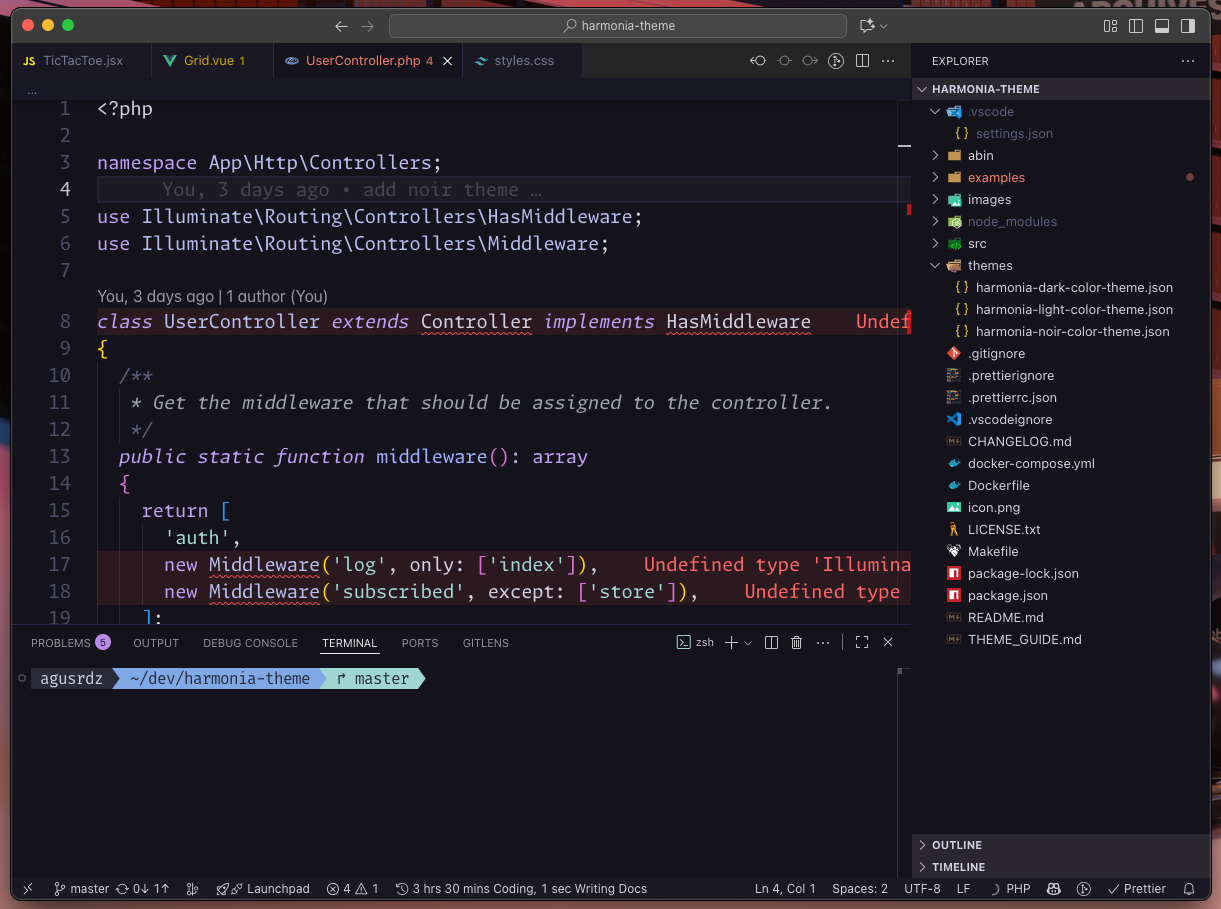
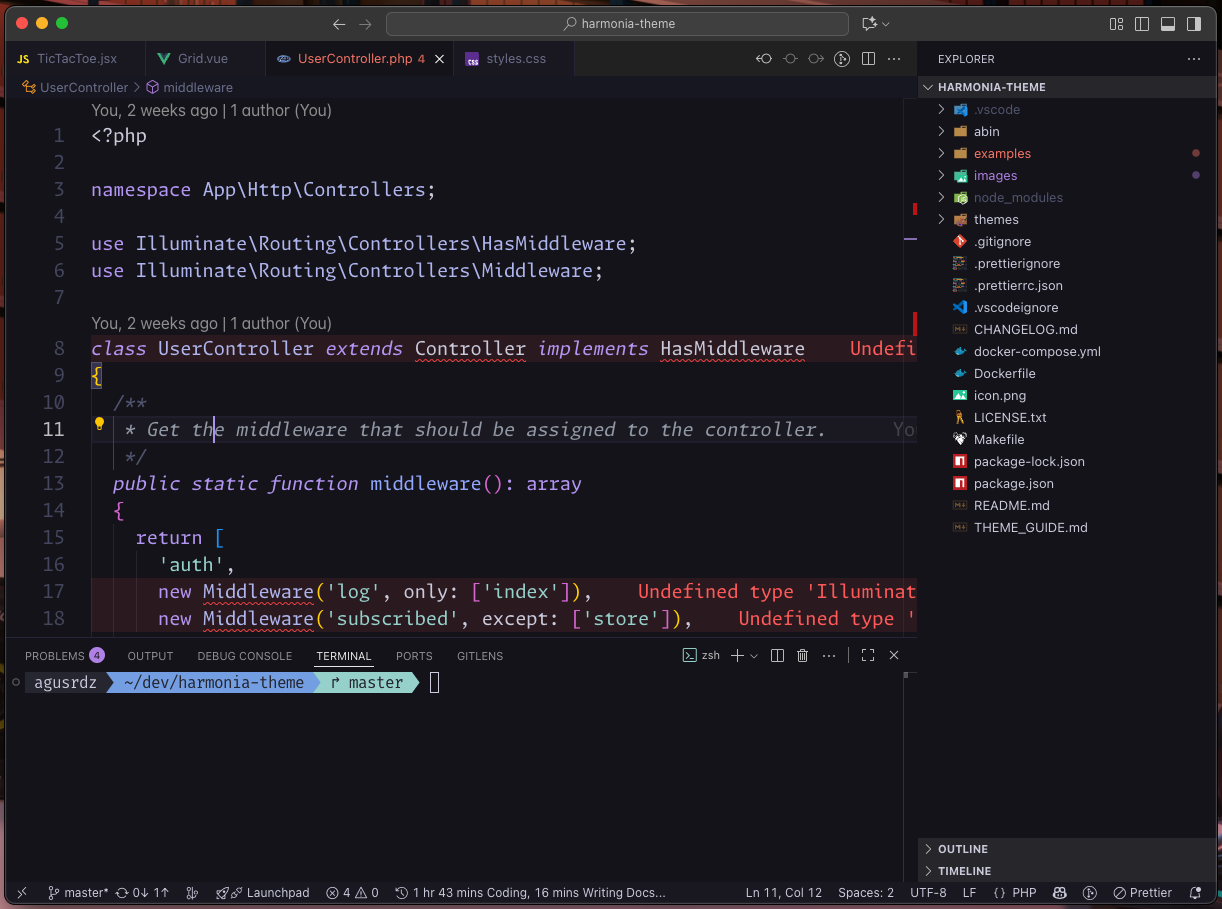
update dark and noir accents

Changed region(s): [[0.0, 0.0, 1.0, 1.0]]

diff --git a/README.md b/README.md
@@ -3,14 +3,38 @@
 **Harmonia** is a carefully crafted theme suite for Visual Studio Code.
 All variants are designed for long, focused coding sessions with soft, thoughtful visuals and semantic clarity.
 
-Currently included:
+## 🎨 Harmonia Theme Family
 
-- 🌑 **Harmonia Dark** - deep, soft background, balanced accents
-- ☀ **Harmonia Light** - gentle light mode, clean readability
-- 🌌 **Harmonia Noir** - violet-black, elegant and moody
-- 🎯 **Harmonia Dark High Contrast** - bold contrast for maximum focus
-- 🖤 **Harmonia OLED True Black** - pure black background, power-efficient on OLED
-- 📄 **Harmonia Paper White** - bright, print-like clarity for maximum readability
+| Variant                | Mode  | Description                            | Palette                         |
+| ---------------------- | ----- | -------------------------------------- | ------------------------------- |
+| 🌑 **Dark**            | Dark  | Technical, focused, and balanced.      | `#1a1b26`, `#9CB8FF`, `#83D3B2` |
+| 🌌 **Noir**            | Dark  | Elegant, moody, and cinematic.         | `#14121A`, `#C2A0F5`, `#A8E0D2` |
+| 💎 **High Contrast**   | Dark  | Sharp and vibrant for high visibility. | `#1a1b26`, `#E3B1FF`, `#A9F0DA` |
+| 🖤 **OLED True Black** | Dark  | Pure black for OLED screens.           | `#000000`, `#B99EF0`, `#A7DEAE` |
+| ☀ **Light**           | Light | Clean, balanced, and neutral.          | `#eceef1`, `#4B5EBD`, `#2F7C61` |
+| 📄 **Paper White**     | Light | Print-like and ultra-readable.         | `#ffffff`, `#2D2D2D`, `#3574A3` |
+| 🌈 **Aurora**          | Dark  | Soft, colorful, and relaxing.          | `#1D1C28`, `#E8A2C8`, `#B0E3C5` |
+
+---
+
+## 🩵 The Harmonia Journey - Complete, but Ever-Evolving
+
+With version **1.5.1**, the **Harmonia core collection** is now considered **feature complete**.
+Each variant - from _Dark_ to _Aurora_ - represents a unique balance of clarity, comfort, and emotion,
+forming a full spectrum designed for long, pleasant coding sessions.
+
+Harmonia will continue to receive:
+
+- Minor refinements for **contrast, readability, and accessibility**.
+- Adjustments to stay in sync with **new VS Code tokens and UI updates**.
+- Occasional explorations under **_Harmonia Elements_**,
+  a sub-family of experimental palettes inspired by natural tones (e.g. _Teal_, _Sand_, _Rose_).
+
+> Harmonia is no longer expanding - it’s maturing.
+> Its philosophy of visual harmony, comfort, and balance remains at the core of every update.
+
+🌿 Thank you for helping Harmonia grow into a complete family of colors,
+trusted by developers who value focus, serenity, and timeless design.
 
 ---
 
@@ -44,7 +68,7 @@ Harmonia was created for developers who want:
 
 - `#1a1b26` - soft, deep background (never pure black)
 - `#d0d0e0` - consistent, low-contrast foreground text
-- Accents: `#c574dd`, `#88c6c3`, `#a3d9a5` --- expressive yet quiet
+- Accents: `#9CB8FF`, `#88c6c3`, `#c574dd` --- expressive yet quiet
 - Structure: `#5a5f7a` for dividers, quotes, and spacing
 
 ### Harmonia Light
@@ -58,7 +82,7 @@ Harmonia was created for developers who want:
 
 - `#14121A` - rich violet-black background for deep focus
 - `#d0d0e0` - soft, neutral foreground text
-- Accents: `#b88ce8`, `#9fd6d1`, `#e0a96d` - sophisticated, moody
+- Accents: `#C2A0F5`, `#A8E0D2`, `#e0a96d` - sophisticated, moody
   tones
 - Structure: `#4C4665` and `#2A2835` for subtle depth and guides
 

diff --git a/CHANGELOG.md b/CHANGELOG.md
@@ -1,3 +1,19 @@
+## [1.5.1] - 2025-10-07
+
+### Updated
+
+- ✨ Minor refinements across the suite for **contrast and consistency**.
+- 🌌 Subtle tone adjustments in _Dark_ and _Noir_ to maintain distinct identities.
+- 🪶 Final alignment of **token colors** across all themes for uniform hierarchy and legibility.
+
+### Notes
+
+With this release, the **Harmonia core collection** is now considered complete.
+Future updates will focus on **accessibility, performance, and fine-tuning** - not on introducing new variants.
+
+> Harmonia 1.5 marks the completion of its visual philosophy:
+> seven cohesive themes built for comfort, focus, and balance - across every light and dark environment.
+
 ## [1.5.0] - 2025-10-07
 
 ### Added
